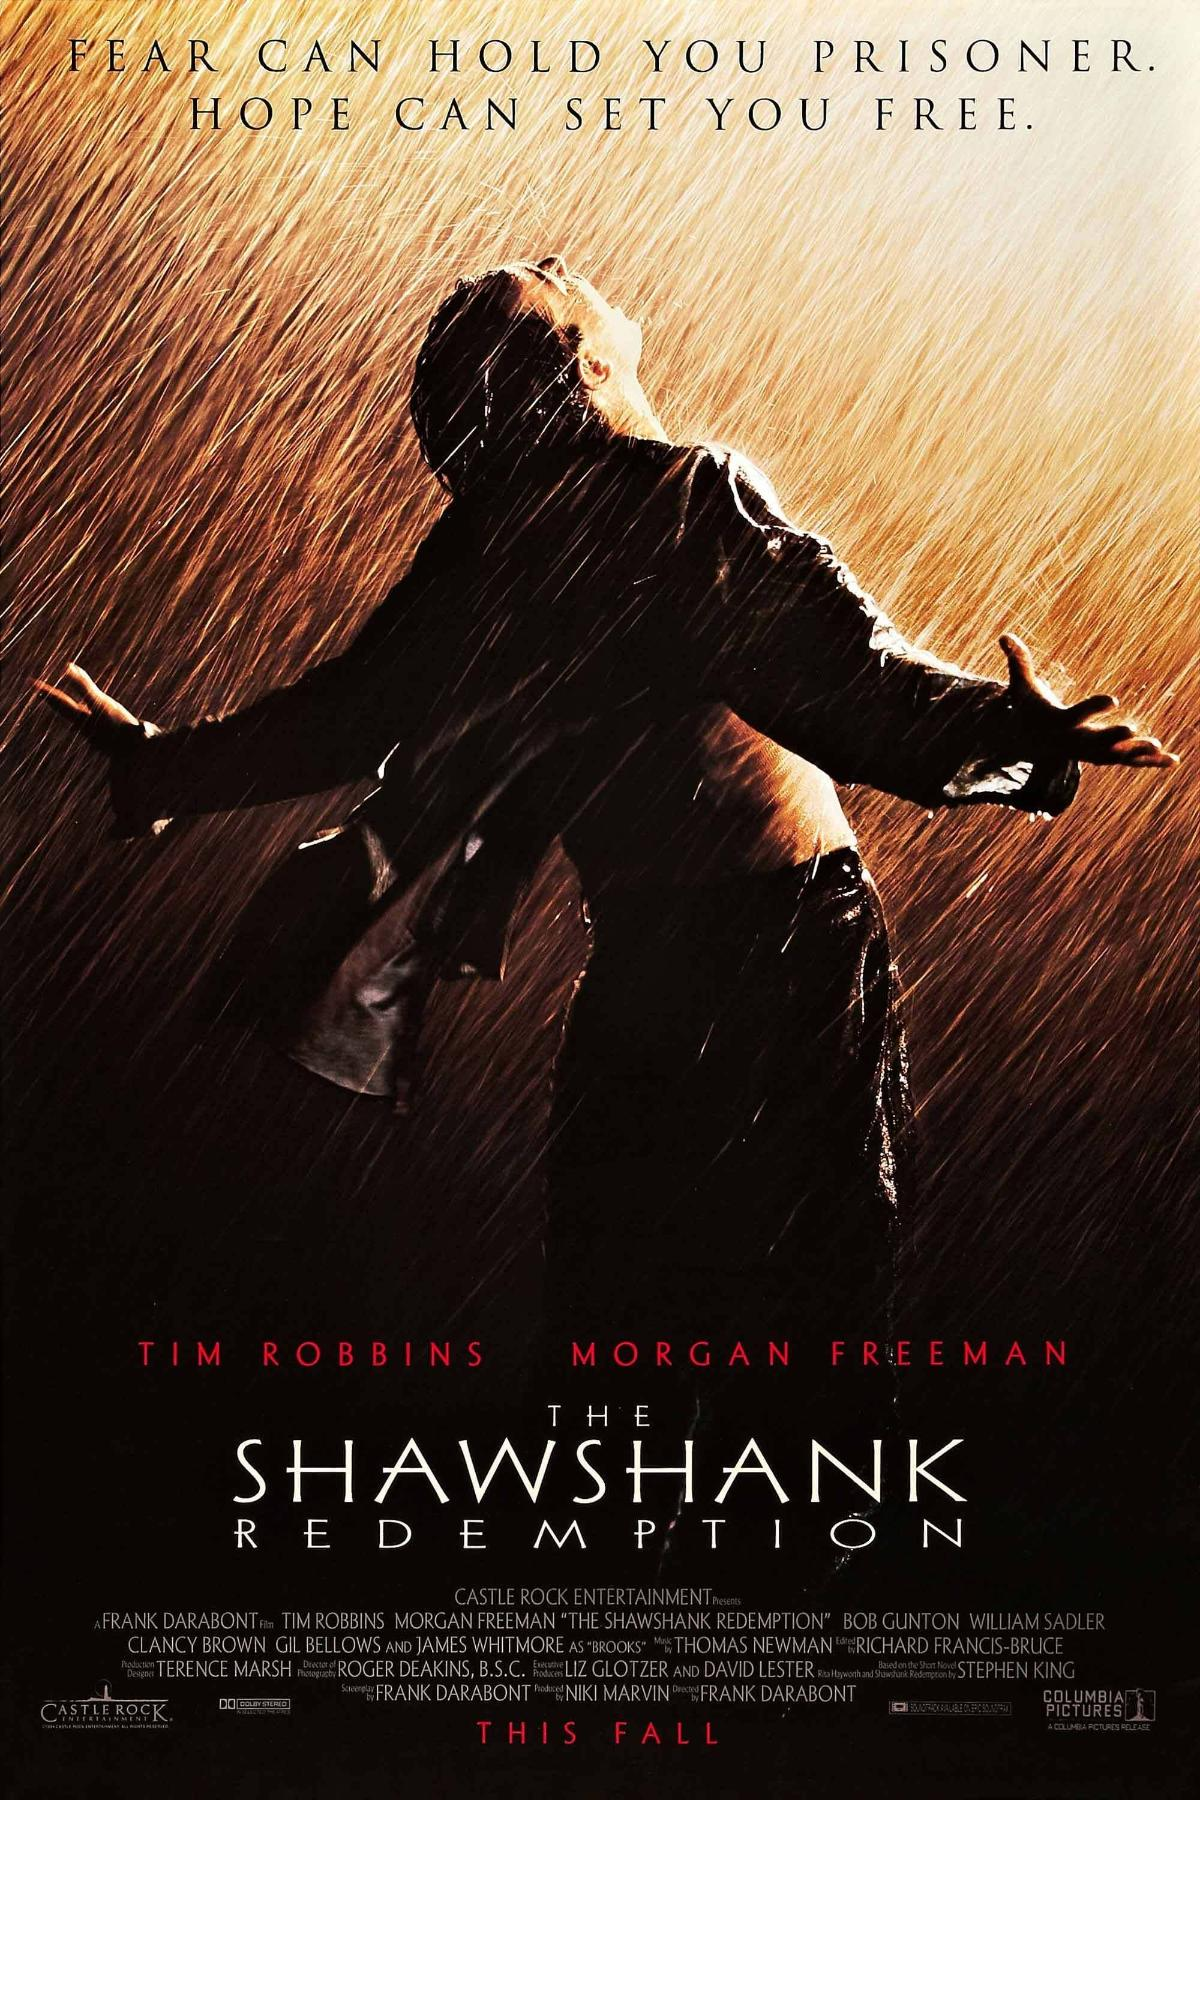
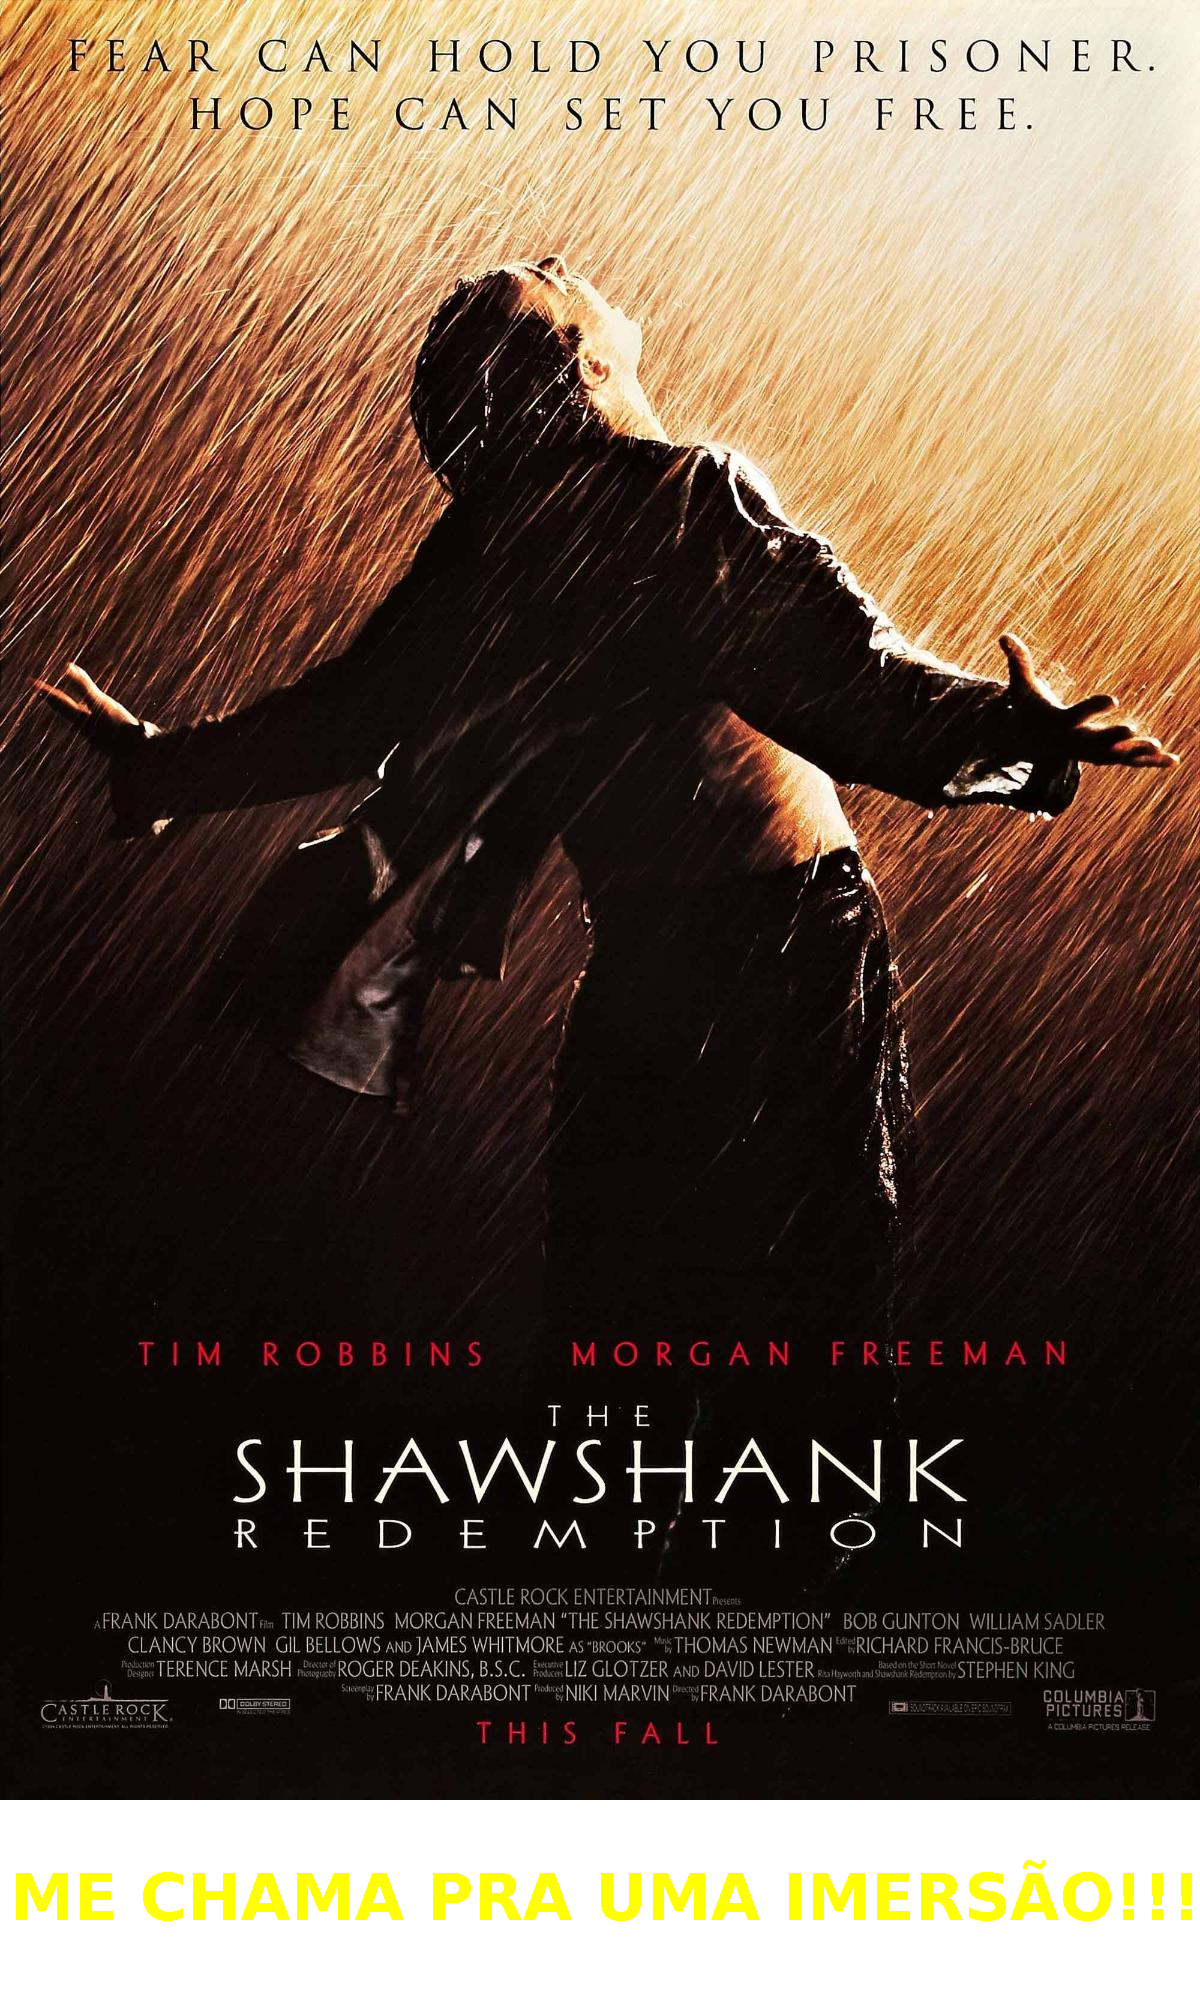
ler imagem diretamente da internet e escrever frase formatada

Changed region(s): [[0.1233, 0.93, 1.0, 0.961], [0.0, 0.93, 0.0925, 0.961]]

diff --git a/src/GeradorDeStickers.java b/src/GeradorDeStickers.java
@@ -1,15 +1,20 @@
 import javax.imageio.ImageIO;
-import java.awt.Graphics2D;
+import java.awt.*;
 import java.awt.image.BufferedImage;
 import java.io.File;
+import java.io.FileInputStream;
 import java.io.IOException;
+import java.io.InputStream;
+import java.net.URL;
 
 public class GeradorDeStickers {
 
     public void cria() throws IOException {
 
         // fazer a leitura da imagem
-        BufferedImage imagemOriginal = ImageIO.read(new File("entrada/filme.jpg"));
+        //InputStream inputStream = new FileInputStream(new File("entrada/filme.jpg"));
+        InputStream inputStream = new URL("https://m.media-amazon.com/images/M/MV5BNDE3ODcxYzMtY2YzZC00NmNlLWJiNDMtZDViZWM2MzIxZDYwXkEyXkFqcGdeQXVyNjAwNDUxODI@.jpg").openStream();
+        BufferedImage imagemOriginal = ImageIO.read(inputStream);
 
         // criar nova imagem em memória com transparência e redimensionada
         int largura = imagemOriginal.getWidth();
@@ -21,8 +26,13 @@ public class GeradorDeStickers {
         Graphics2D graphics = (Graphics2D) novaImagem.getGraphics();
         graphics.drawImage(imagemOriginal, 0, 0, null);
 
-        // escrever uma frase na nova imagem
+        // configurar a fonte
+        Font fonte = new Font(Font.SANS_SERIF, Font.BOLD, 64);
+        graphics.setColor(Color.YELLOW);
+        graphics.setFont(fonte);
 
+        // escrever uma frase na nova imagem
+        graphics.drawString("ME CHAMA PRA UMA IMERSÃO!!!", 10, novaAltura - 80);
 
         // escrever a nova imagem num arquivo
         ImageIO.write(novaImagem, "png", new File("saida/figurinha.png"));
